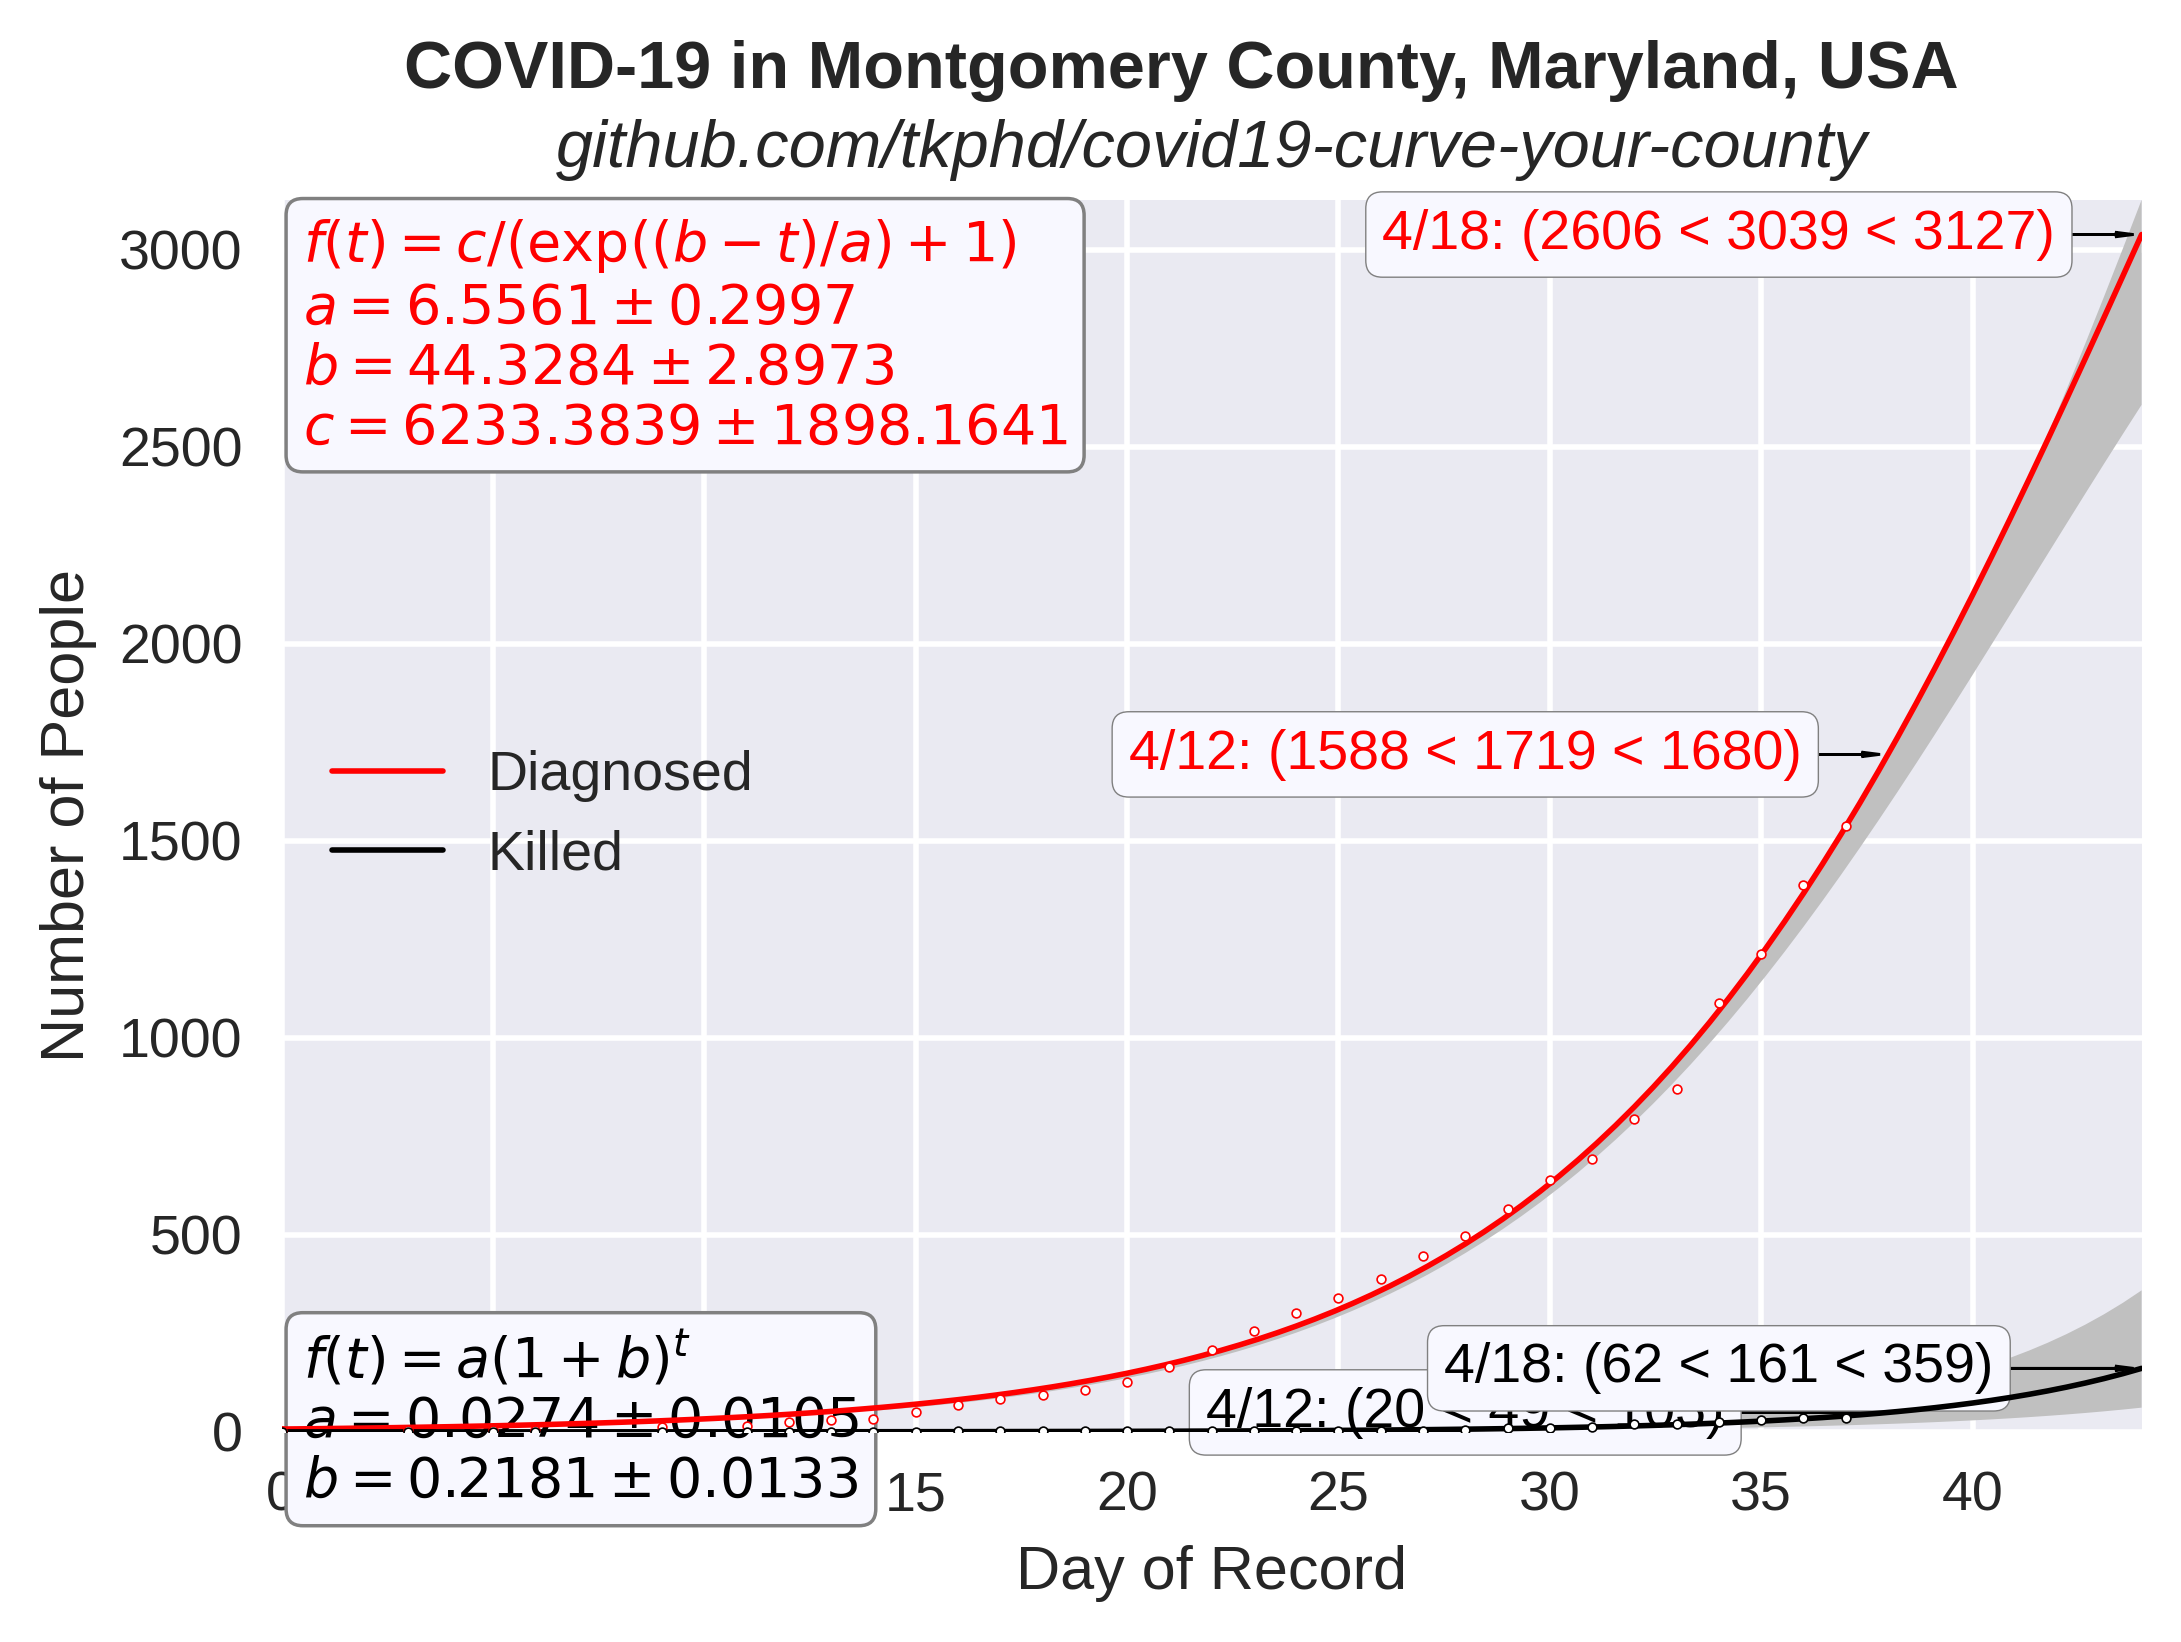
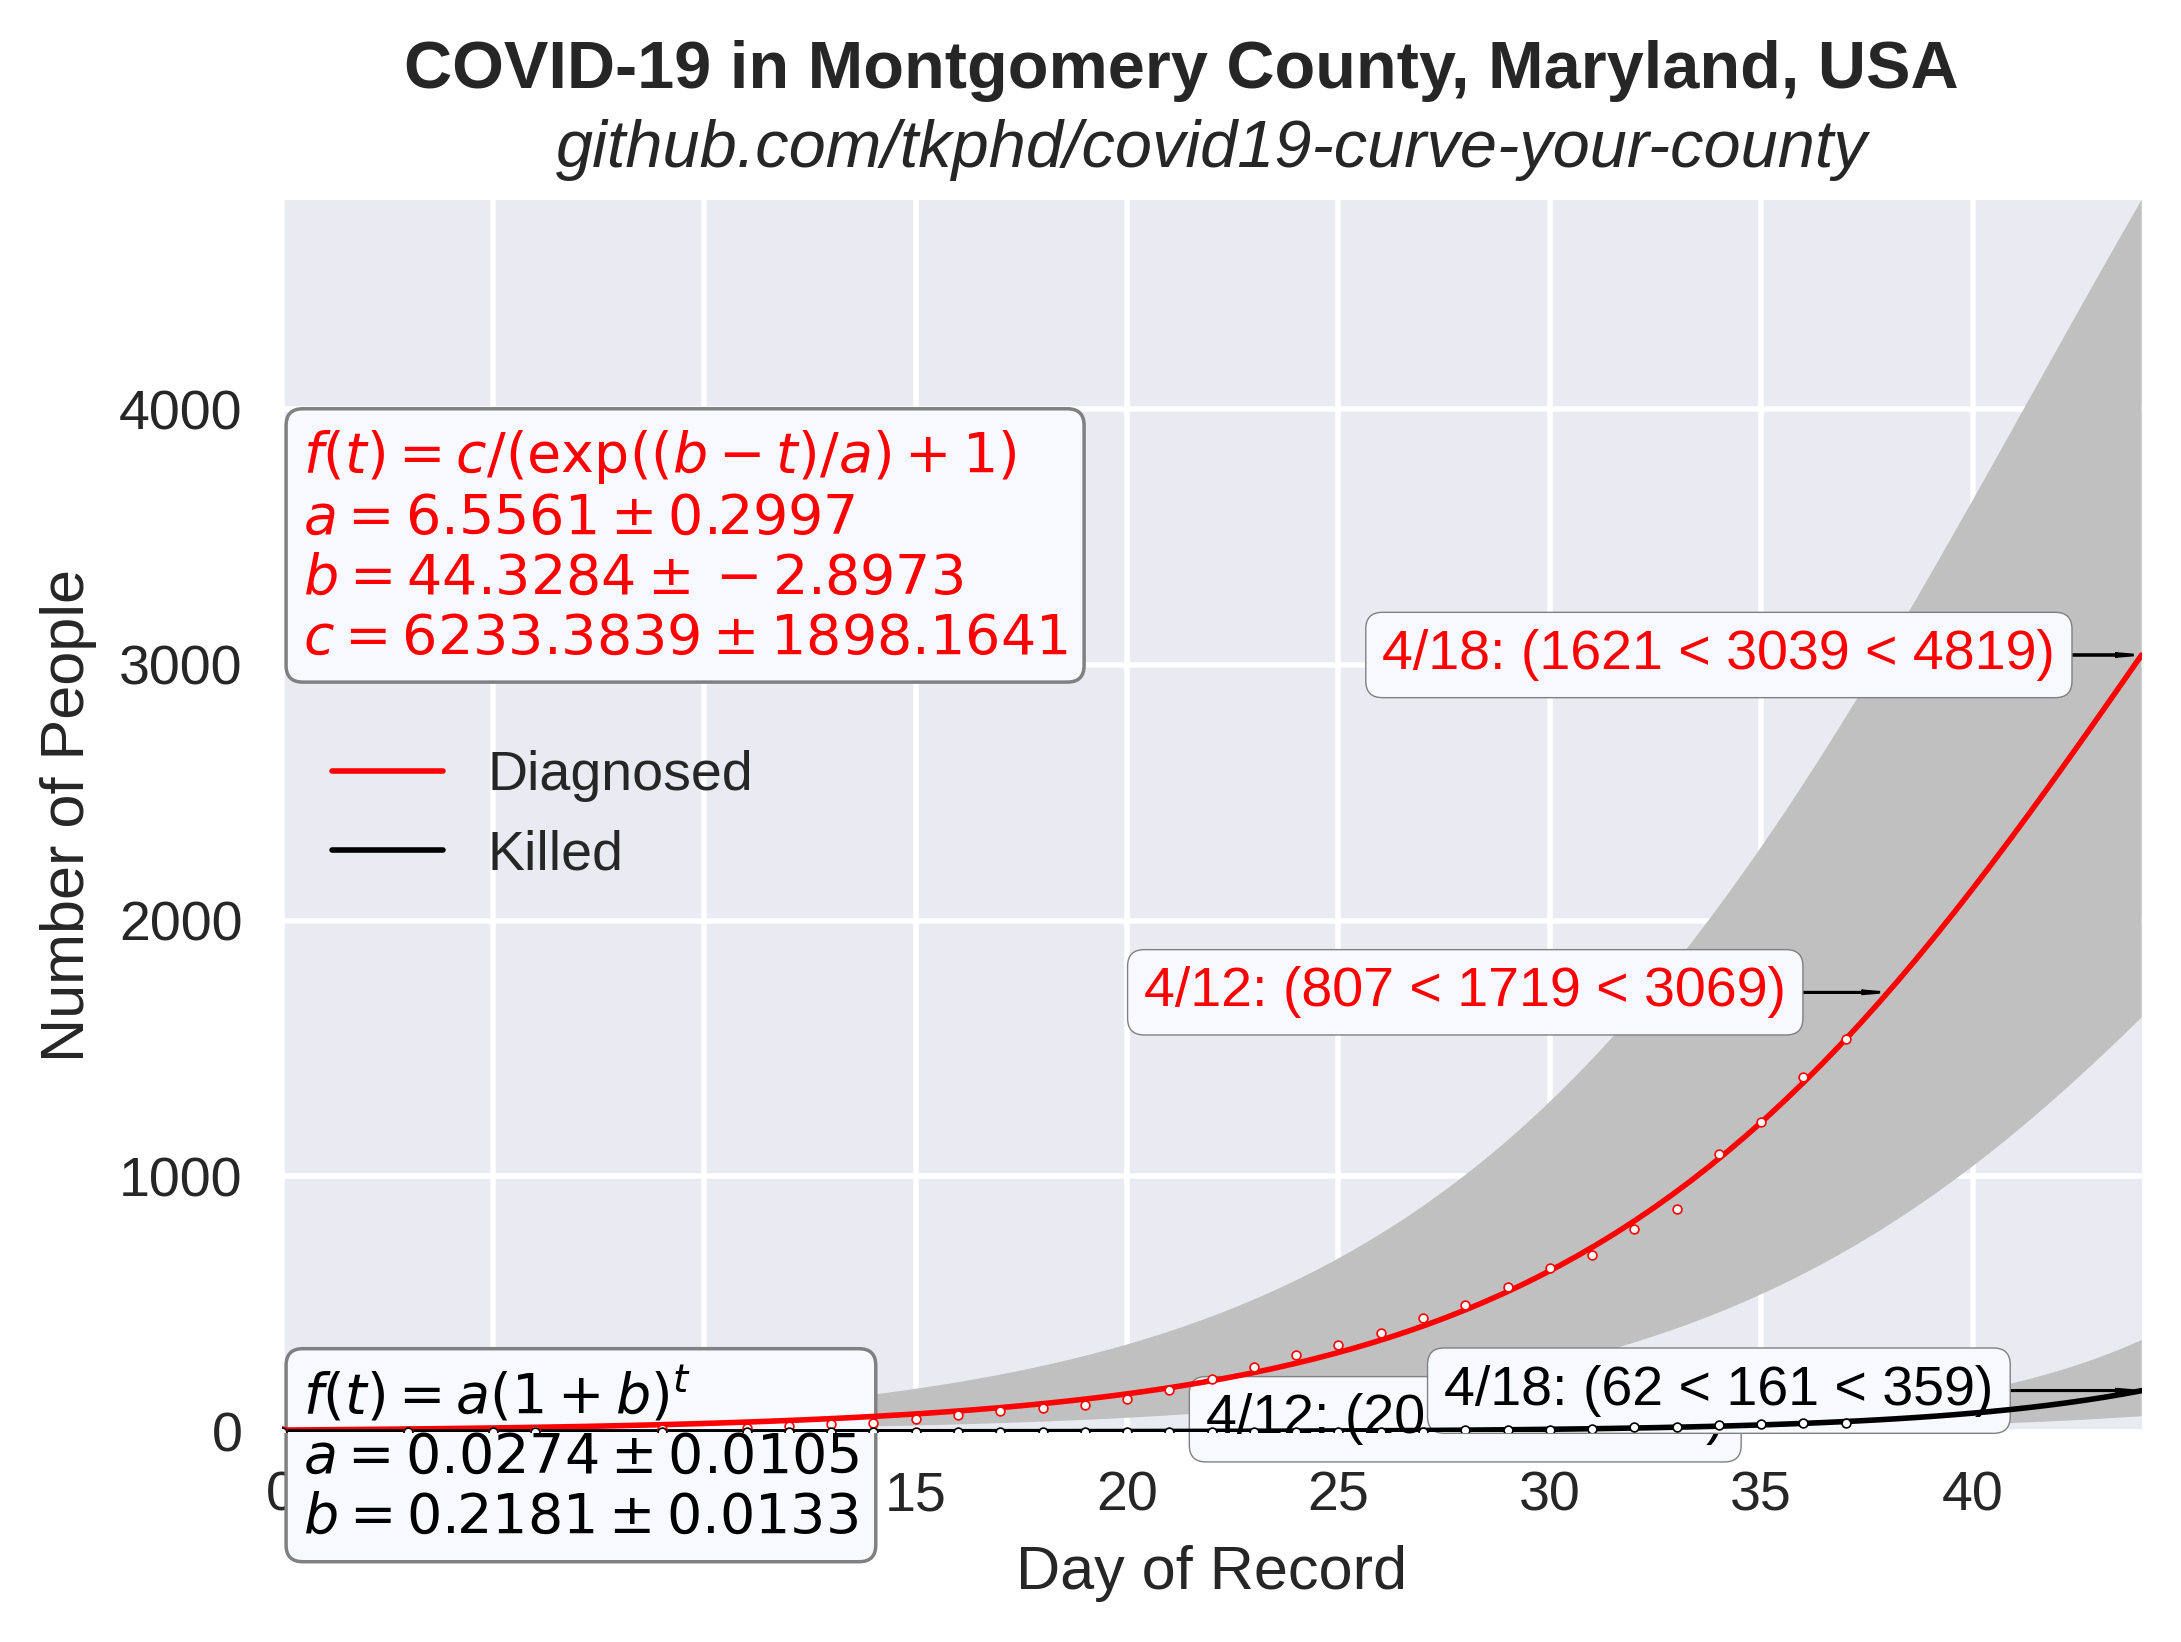
fix error band

diff --git a/exponential.py b/exponential.py
@@ -128,8 +128,11 @@ for key in columns:
     t_hat = np.linspace(0, t[-1] + 7, 100)
     y_hat = f(t_hat, *p)
 
-    upr_p = p + perr
-    lwr_p = p - perr
+    tmperr = perr
+    if (models[key] == "log"):
+        tmperr[1] *= -1
+    upr_p = p + tmperr
+    lwr_p = p - tmperr
 
     upper = f(t_hat, *upr_p)
     lower = f(t_hat, *lwr_p)
